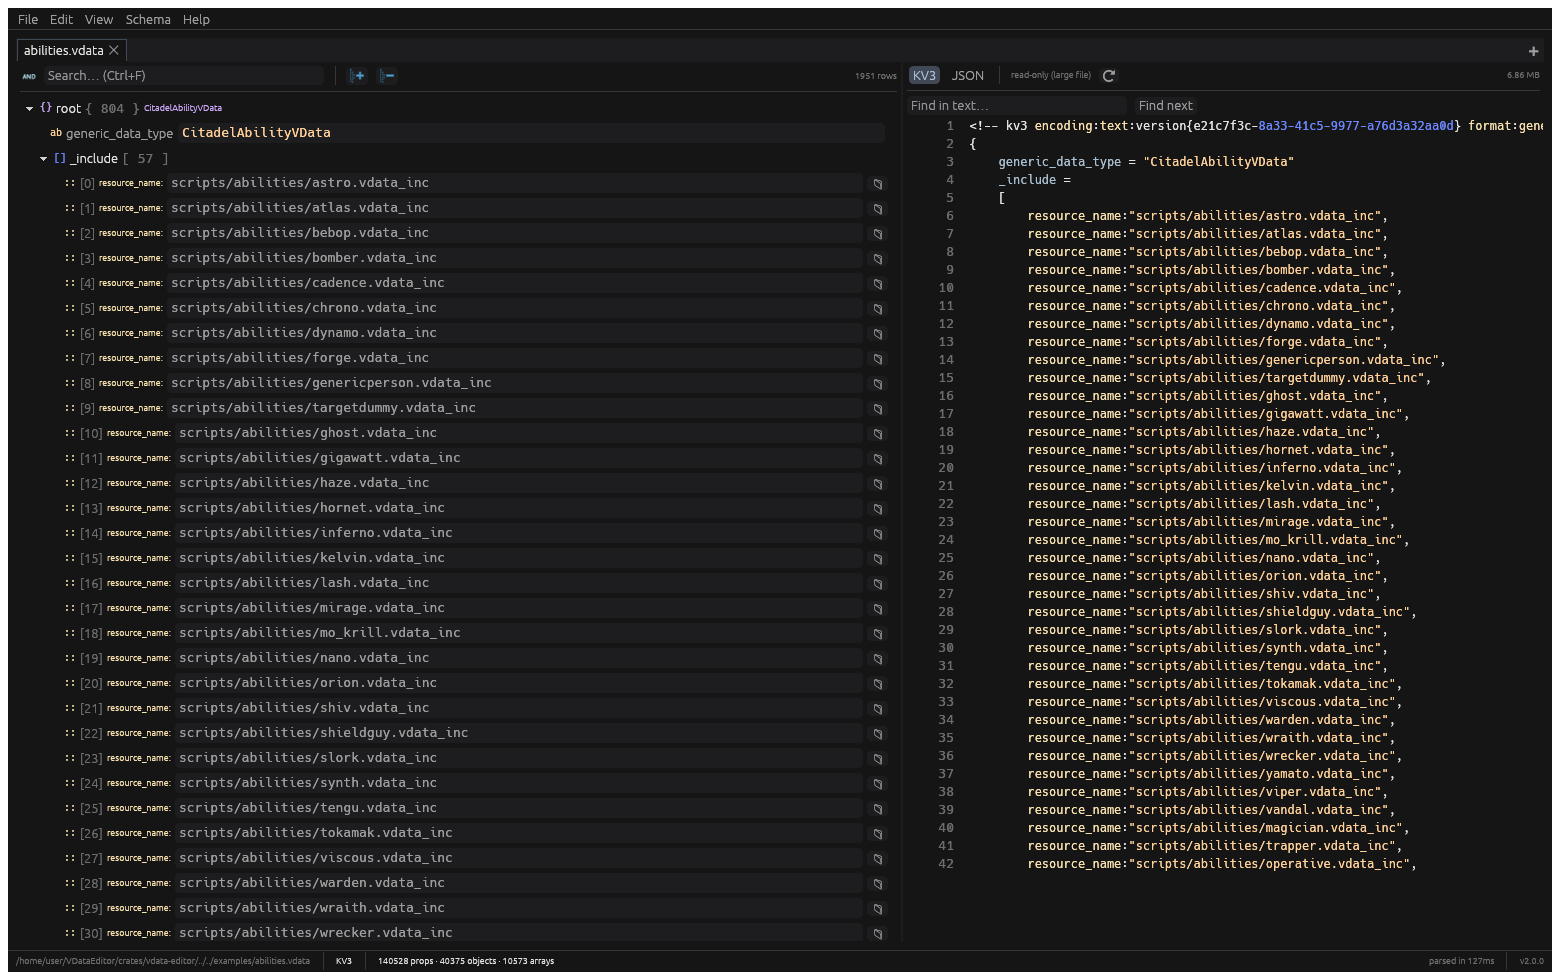
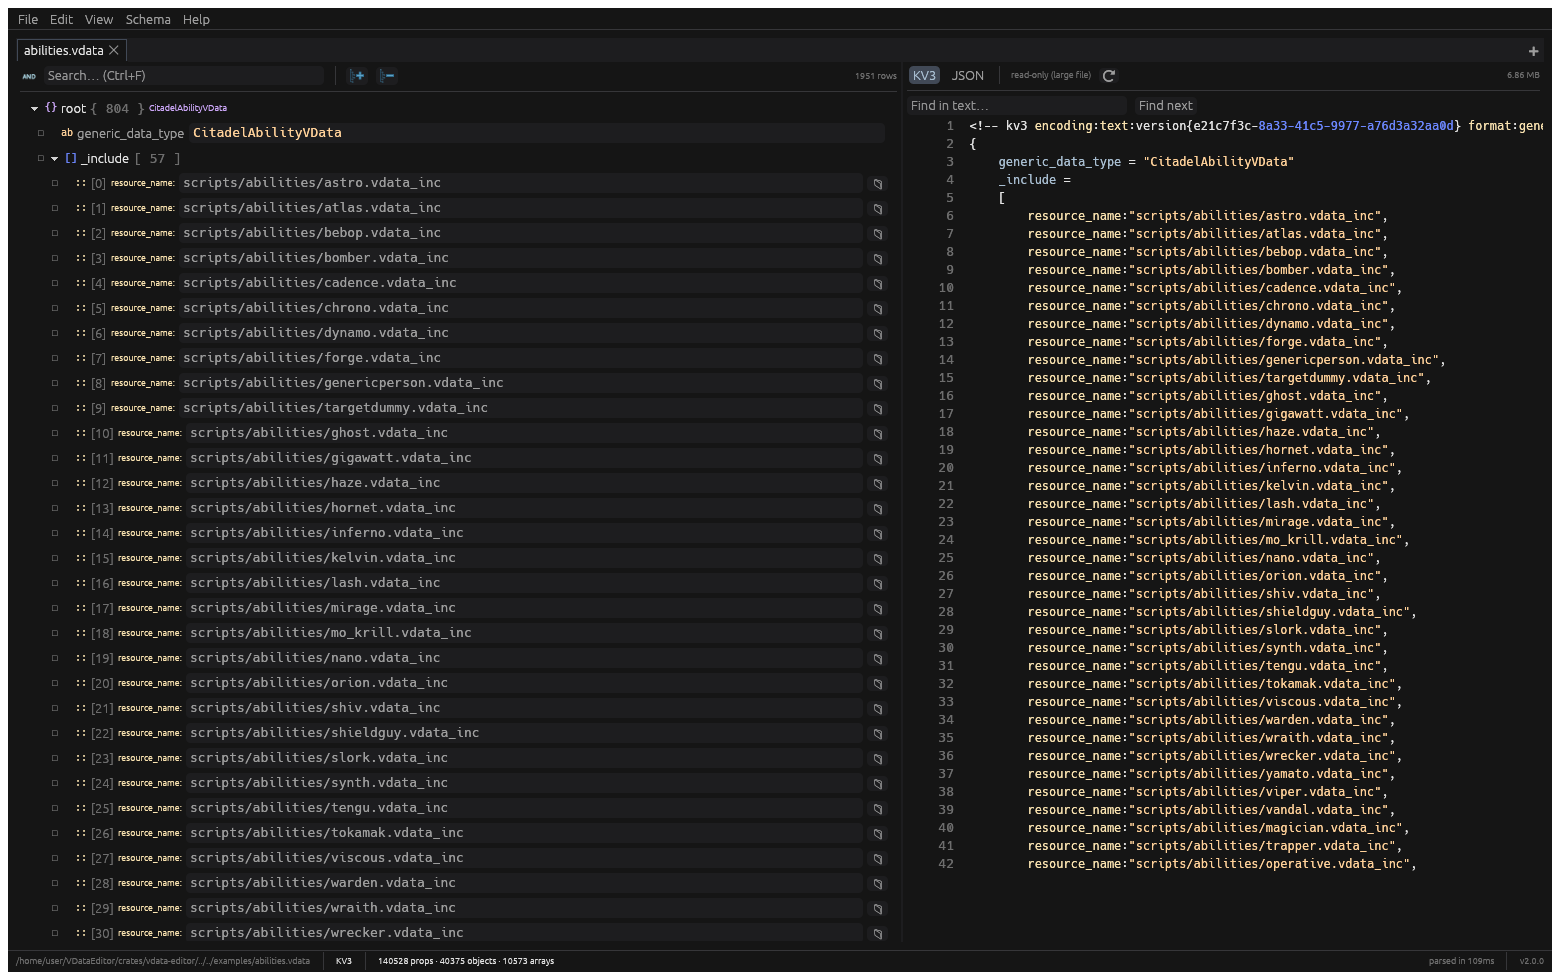
Add drag-and-drop reordering of tree rows
Each non-root row gets a drag handle like the original editor's array
drag control. Dragging shows a floating label with the row's key and an
insertion line above/below the hovered sibling; dropping reorders the
node within its parent through the regular command history (single
undoable Move). Drops are restricted to siblings of the dragged node
and to the same document, so panes showing other documents ignore the
payload. Index math accounts for Vec::remove/insert semantics and is
unit-tested alongside an end-to-end reorder + undo test.

https://claude.ai/code/session_01N8MUF11rARS9ZhHPwLtPmh

Changed region(s): [[0.0308, 0.0918, 0.3077, 0.9796]]

diff --git a/crates/vdata-editor/src/ui/tree.rs b/crates/vdata-editor/src/ui/tree.rs
@@ -50,6 +50,19 @@ pub enum TreeAction {
     DuplicateMany(Vec<NodeId>),
     CommentOutMany(Vec<NodeId>),
     CastMany(Vec<NodeId>, CastTarget),
+    /// Drag-and-drop reorder: drop `id` before/after `target` (same parent).
+    MoveTo {
+        id: NodeId,
+        target: NodeId,
+        after: bool,
+    },
+}
+
+/// Payload carried while dragging a tree row.
+#[derive(Clone, Copy, PartialEq, Eq)]
+struct DragRow {
+    doc: crate::doc::DocId,
+    id: NodeId,
 }
 
 #[derive(Clone, Copy, PartialEq, Eq)]
@@ -252,6 +265,22 @@ pub fn show(
 
     doc.tree_view.flat = flat;
 
+    // Floating label following the pointer while one of our rows is dragged.
+    if let Some(drag) = egui::DragAndDrop::payload::<DragRow>(ui.ctx()) {
+        if drag.doc == doc.id {
+            if let Some(pos) = ui.ctx().pointer_interact_pos() {
+                egui::Area::new(egui::Id::new(("drag-label", doc.id)))
+                    .fixed_pos(pos + egui::vec2(12.0, 6.0))
+                    .order(egui::Order::Tooltip)
+                    .show(ui.ctx(), |ui| {
+                        egui::Frame::popup(ui.style()).show(ui, |ui| {
+                            ui.label(doc.model.label(drag.id));
+                        });
+                    });
+            }
+        }
+    }
+
     for action in actions {
         apply_action(doc, action);
     }
@@ -285,12 +314,32 @@ fn row_ui(
     let total_width = ui.available_width();
     let key_col = (total_width * 0.40).clamp(140.0, 460.0);
 
-    ui.allocate_ui_with_layout(
+    let row_response = ui.allocate_ui_with_layout(
         Vec2::new(total_width, ROW_HEIGHT),
         Layout::left_to_right(Align::Center),
         |ui| {
             ui.spacing_mut().item_spacing.x = 4.0;
-            ui.add_space(4.0 + depth as f32 * 14.0);
+            ui.add_space(2.0 + depth as f32 * 14.0);
+
+            // Drag handle for reordering within the parent (the old editor's
+            // ⋮⋮ handle). The root has nothing to reorder against.
+            if id != doc.model.root() {
+                let drag_id = egui::Id::new(("row-drag", doc.id, id));
+                let handle = ui
+                    .dnd_drag_source(
+                        drag_id,
+                        DragRow { doc: doc.id, id },
+                        |ui| {
+                            ui.label(RichText::new("⋮").color(palette.dim).small());
+                        },
+                    )
+                    .response;
+                if handle.hovered() {
+                    ui.ctx().set_cursor_icon(egui::CursorIcon::Grab);
+                }
+            } else {
+                ui.add_space(7.0);
+            }
 
             // Expand/collapse triangle (Valve-style arrow PNGs, hover variant).
             let is_container = doc.model.is_container(id);
@@ -343,6 +392,48 @@ fn row_ui(
             value_ui(ui, doc, schema, palette, id, actions);
         },
     );
+
+    // Drop target: while a sibling row is being dragged, show an insertion
+    // line above/below this row and reorder on release.
+    let row_rect = row_response.response.rect;
+    let drop_resp = ui.interact(
+        row_rect,
+        egui::Id::new(("row-drop", doc.id, id)),
+        Sense::hover(),
+    );
+    let same_parent_drag = |drag: &DragRow| {
+        drag.doc == doc.id
+            && drag.id != id
+            && doc.model.node(drag.id).parent.is_some()
+            && doc.model.node(drag.id).parent == doc.model.node(id).parent
+    };
+    if let Some(drag) = drop_resp.dnd_hover_payload::<DragRow>() {
+        if same_parent_drag(&drag) {
+            let after = ui
+                .ctx()
+                .pointer_interact_pos()
+                .is_some_and(|p| p.y > row_rect.center().y);
+            let y = if after { row_rect.bottom() } else { row_rect.top() };
+            ui.painter().hline(
+                row_rect.x_range(),
+                y,
+                egui::Stroke::new(2.0, ui.visuals().selection.stroke.color),
+            );
+        }
+    }
+    if let Some(drag) = drop_resp.dnd_release_payload::<DragRow>() {
+        if same_parent_drag(&drag) {
+            let after = ui
+                .ctx()
+                .pointer_interact_pos()
+                .is_some_and(|p| p.y > row_rect.center().y);
+            actions.push(TreeAction::MoveTo {
+                id: drag.id,
+                target: id,
+                after,
+            });
+        }
+    }
 }
 
 #[allow(clippy::too_many_arguments)]
@@ -1303,6 +1394,30 @@ pub fn apply_action(doc: &mut Document, action: TreeAction) {
             doc.history.push(model, Cmd::Batch(cmds), label);
             doc.mark_edited();
         }
+        TreeAction::MoveTo { id, target, after } => {
+            let (Some((parent_a, from)), Some((parent_b, target_idx))) =
+                (model.index_in_parent(id), model.index_in_parent(target))
+            else {
+                return;
+            };
+            if parent_a != parent_b {
+                return;
+            }
+            let to = reorder_target_index(from, target_idx, after);
+            if to == from {
+                return;
+            }
+            doc.history.push(
+                model,
+                Cmd::Move {
+                    parent: parent_a,
+                    from,
+                    to,
+                },
+                "Reorder",
+            );
+            doc.mark_edited();
+        }
         TreeAction::CastMany(ids, target) => {
             let mut cmds = Vec::new();
             for id in ids {
@@ -1320,6 +1435,17 @@ pub fn apply_action(doc: &mut Document, action: TreeAction) {
             doc.mark_edited();
         }
     }
+}
+
+/// Insertion index for dropping before/after `target`, accounting for the
+/// dragged element being removed from `from` first (`Vec::remove` +
+/// `Vec::insert` semantics of [`DocModel::move_child`]).
+fn reorder_target_index(from: usize, target: usize, after: bool) -> usize {
+    let mut to = target + after as usize;
+    if from < to {
+        to -= 1;
+    }
+    to
 }
 
 /// Resolve a multi-selection into `(parent, index, id)` triples safe to
@@ -1563,6 +1689,60 @@ mod tests {
             ));
         }
         assert_eq!(doc.history.depth(), 1);
+        doc.history.undo(&mut doc.model);
+        assert_eq!(doc.model.to_value(), before);
+    }
+
+    #[test]
+    fn reorder_index_accounts_for_removal() {
+        // Dropping below a later sibling: removal shifts the target left.
+        assert_eq!(reorder_target_index(0, 2, true), 2);
+        assert_eq!(reorder_target_index(0, 2, false), 1);
+        // Dropping above an earlier sibling: indices unaffected by removal.
+        assert_eq!(reorder_target_index(3, 1, false), 1);
+        assert_eq!(reorder_target_index(3, 1, true), 2);
+        // No-op drops resolve to the original index.
+        assert_eq!(reorder_target_index(2, 2, false), 2);
+        assert_eq!(reorder_target_index(1, 0, true), 1);
+    }
+
+    #[test]
+    fn move_to_reorders_and_undoes() {
+        let mut doc = Document::from_text(1, "{ a = 1 b = 2 c = 3 }", "t.vdata".into(), None);
+        let before = doc.model.to_value();
+        let root = doc.model.root();
+        let kids = doc.model.children(root).to_vec();
+        let keys = |doc: &Document| -> Vec<String> {
+            doc.model
+                .children(doc.model.root())
+                .iter()
+                .map(|&c| doc.model.node(c).key.clone())
+                .collect()
+        };
+
+        // Drag a below c.
+        apply_action(
+            &mut doc,
+            TreeAction::MoveTo {
+                id: kids[0],
+                target: kids[2],
+                after: true,
+            },
+        );
+        assert_eq!(keys(&doc), ["b", "c", "a"]);
+
+        // Drag c above b (now first).
+        apply_action(
+            &mut doc,
+            TreeAction::MoveTo {
+                id: kids[2],
+                target: kids[1],
+                after: false,
+            },
+        );
+        assert_eq!(keys(&doc), ["c", "b", "a"]);
+
+        doc.history.undo(&mut doc.model);
         doc.history.undo(&mut doc.model);
         assert_eq!(doc.model.to_value(), before);
     }
